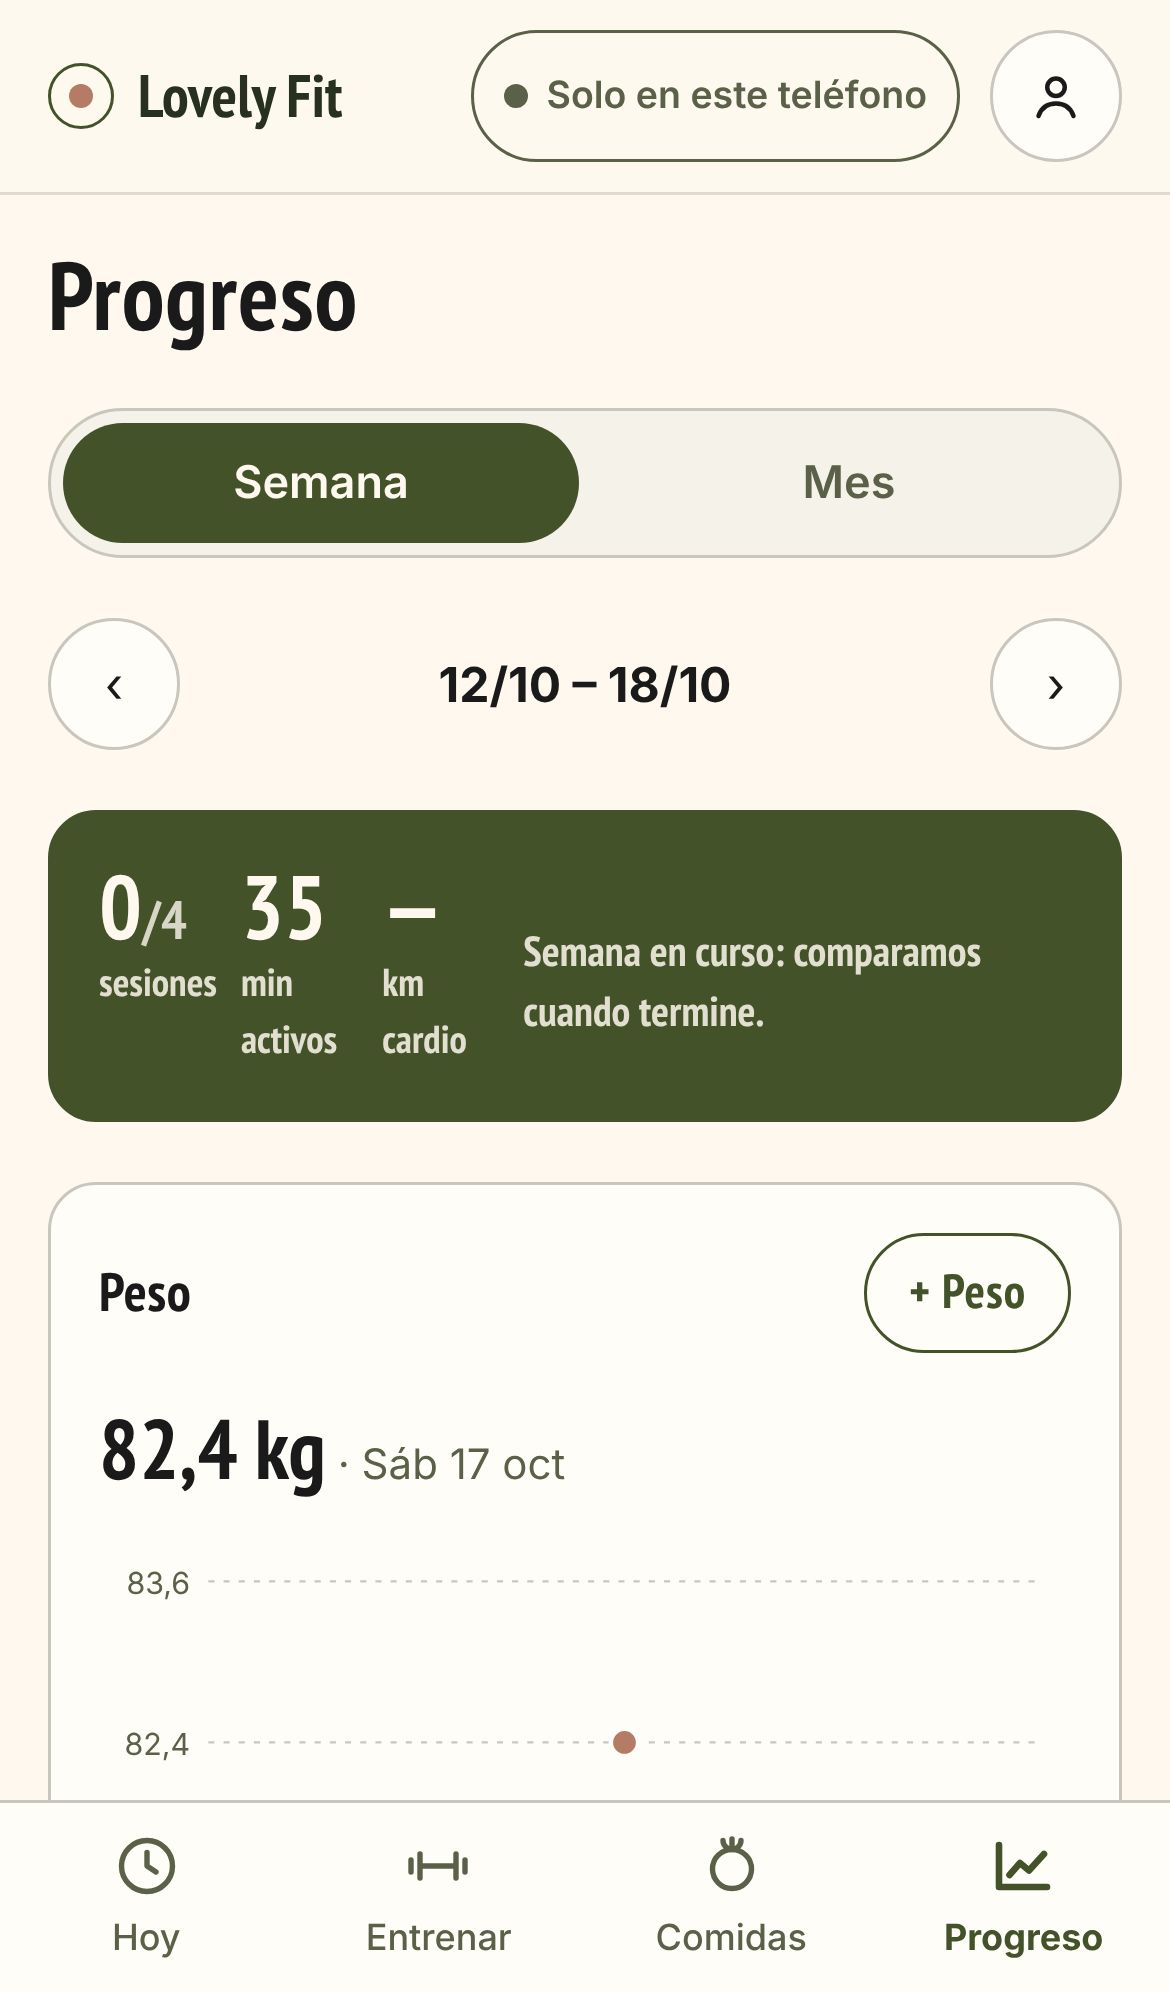
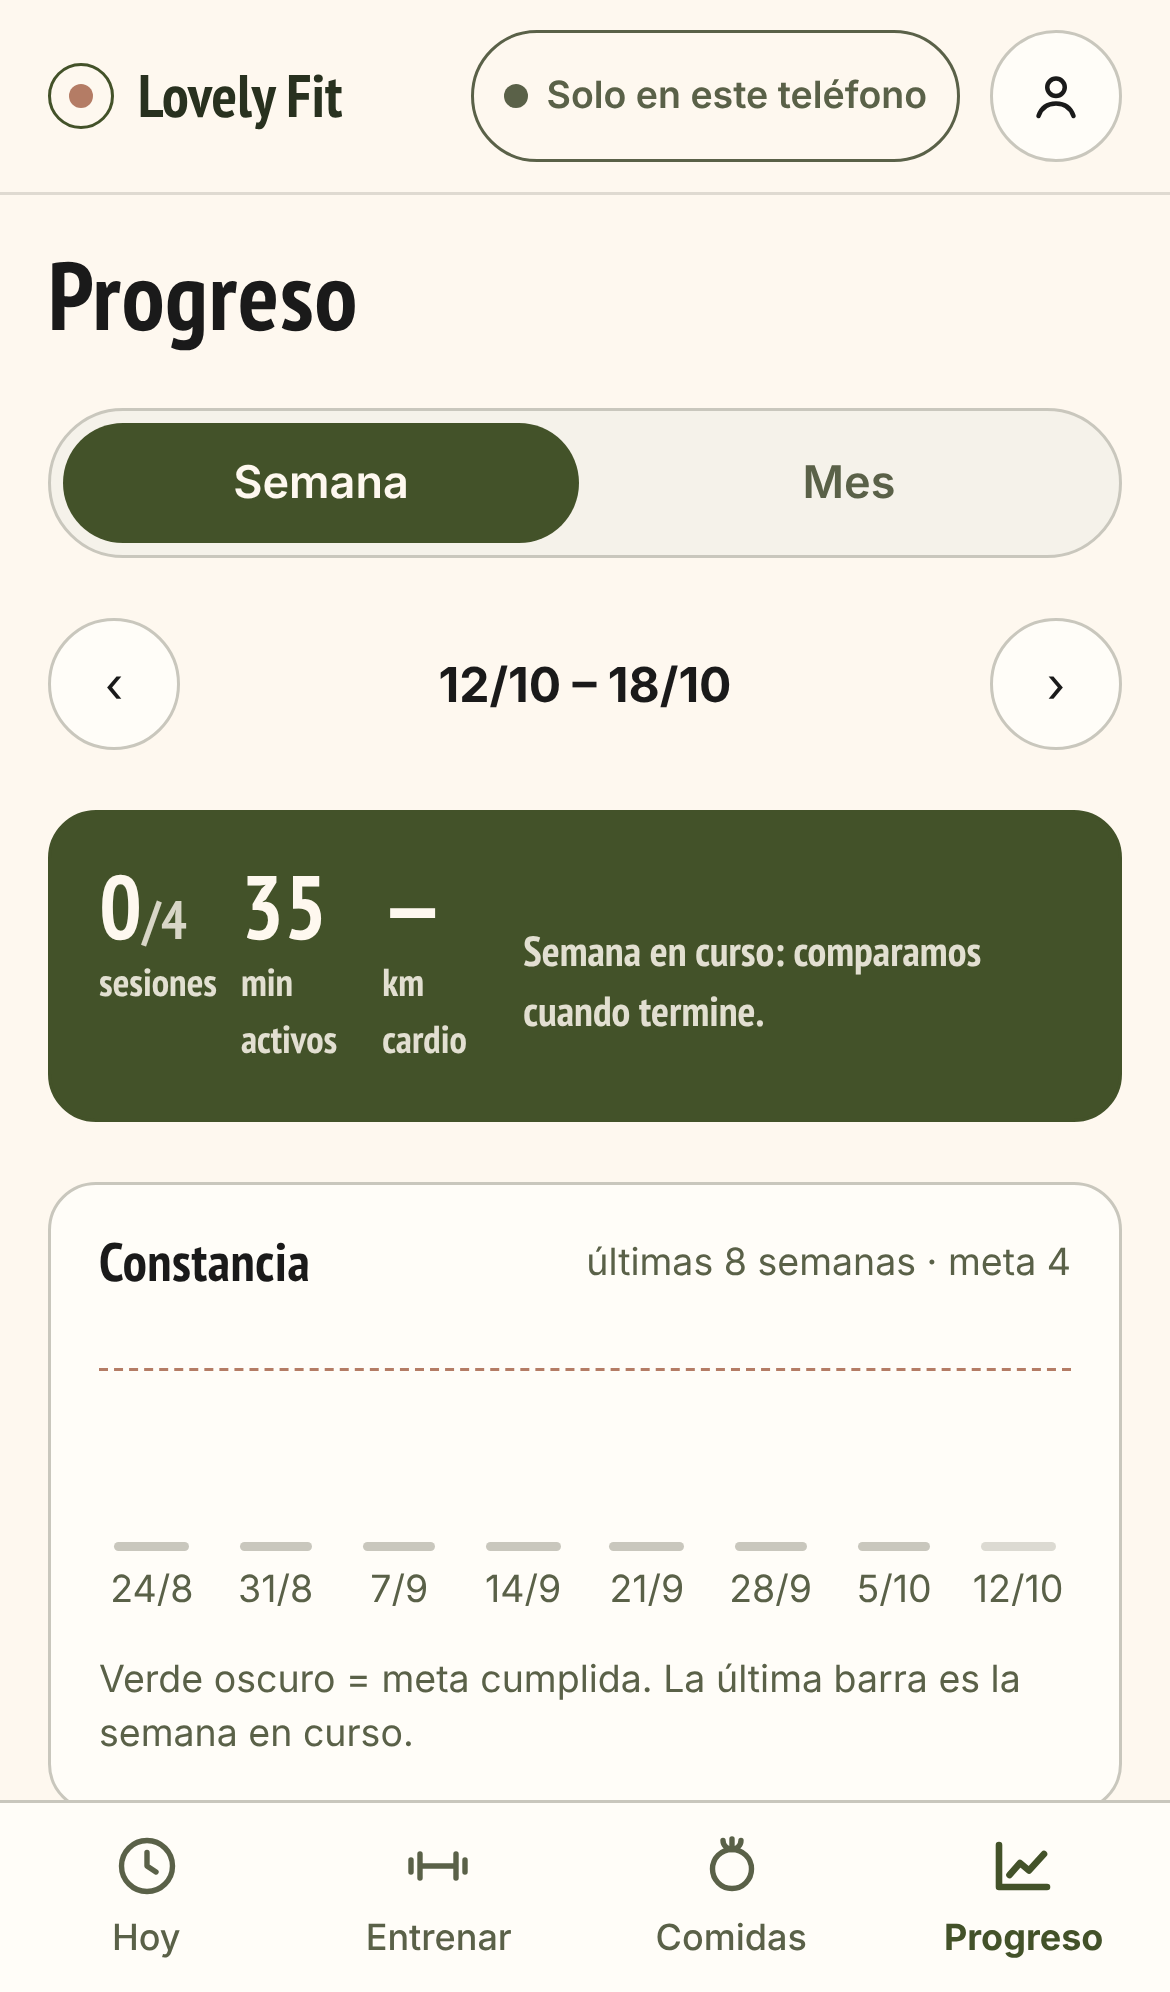
Análisis: récords, series por grupo, constancia, tendencia de peso y resumen

diff --git a/lib/analytics.ts b/lib/analytics.ts
@@ -1,0 +1,147 @@
+import { addDays, daysBetween, weekStart, type DayKey } from './dates'
+import { dailyValue, doneSessions, series, type Period } from './stats'
+import type { DailyMetric, Exercise, Measurement, MuscleGroup, Session, WorkSet } from './types'
+
+/** 1RM estimado (Epley). Solo con 1–12 repes; más allá la estimación no es confiable. */
+export function e1rm(weightKg: number | null, reps: number | null): number | null {
+  if (!weightKg || !reps || reps < 1 || reps > 12) return null
+  return Math.round(weightKg * (1 + reps / 30) * 10) / 10
+}
+
+interface Ctx {
+  sessions: Session[]
+  sets: WorkSet[]
+  exercises: Exercise[]
+}
+
+const validSets = ({ sessions, sets }: Pick<Ctx, 'sessions' | 'sets'>) => {
+  const done = new Map(doneSessions(sessions).map((s) => [s.id, s]))
+  return sets
+    .filter((x) => !x.deletedAt && x.done && x.kind === 'work' && done.has(x.sessionId))
+    .map((x) => ({ set: x, session: done.get(x.sessionId)! }))
+}
+
+export interface PR {
+  exerciseId: string
+  name: string
+  date: DayKey
+  weightKg: number
+  reps: number
+  e1rm: number
+  /** Mejora sobre la mejor marca anterior (kg de 1RM estimado); null si es la primera. */
+  improvement: number | null
+}
+
+/** Récords: la mejor serie (por 1RM estimado) de cada ejercicio, y cuáles se lograron en el período. */
+export function personalRecords(ctx: Ctx, period?: Period): { best: PR[]; inPeriod: PR[] } {
+  const names = new Map(ctx.exercises.map((e) => [e.id, e.name]))
+  const rows = validSets(ctx)
+    .map(({ set, session }) => ({ set, date: session.date, est: e1rm(set.weightKg, set.reps) }))
+    .filter((r): r is { set: WorkSet; date: DayKey; est: number } => r.est != null)
+    .sort((a, b) => a.date.localeCompare(b.date))
+  const best = new Map<string, PR>()
+  const before = new Map<string, number>() // mejor marca antes del período
+  for (const r of rows) {
+    const cur = best.get(r.set.exerciseId)
+    if (period && r.date < period.from) before.set(r.set.exerciseId, Math.max(before.get(r.set.exerciseId) ?? 0, r.est))
+    if (!cur || r.est > cur.e1rm) {
+      best.set(r.set.exerciseId, {
+        exerciseId: r.set.exerciseId, name: names.get(r.set.exerciseId) ?? 'Ejercicio', date: r.date,
+        weightKg: r.set.weightKg!, reps: r.set.reps!, e1rm: r.est, improvement: cur ? Math.round((r.est - cur.e1rm) * 10) / 10 : null,
+      })
+    }
+  }
+  // Récord del período: la mejor marca lograda dentro del período supera la previa (la primera vez no cuenta)
+  const inPeriod: PR[] = []
+  if (period) {
+    for (const pr of best.values()) {
+      const base = before.get(pr.exerciseId)
+      if (base != null && pr.date >= period.from && pr.date <= period.to && pr.e1rm > base) {
+        inPeriod.push({ ...pr, improvement: Math.round((pr.e1rm - base) * 10) / 10 })
+      }
+    }
+  }
+  return { best: [...best.values()].sort((a, b) => b.e1rm - a.e1rm), inPeriod }
+}
+
+/** Series efectivas (de trabajo, completadas) por grupo muscular en el período. */
+export function setsByGroup(ctx: Ctx, period: Period): { group: MuscleGroup; sets: number }[] {
+  const groups = new Map(ctx.exercises.map((e) => [e.id, e.group]))
+  const count = new Map<MuscleGroup, number>()
+  for (const { set, session } of validSets(ctx)) {
+    if (session.date < period.from || session.date > period.to) continue
+    const g = groups.get(set.exerciseId) ?? 'otro'
+    if (g === 'cardio') continue
+    count.set(g, (count.get(g) ?? 0) + 1)
+  }
+  return [...count.entries()].map(([group, sets]) => ({ group, sets })).sort((a, b) => b.sets - a.sets)
+}
+
+/** Sesiones por semana de las últimas N semanas (incluida la actual). */
+export function weeklyConsistency(sessions: Session[], today: DayKey, weeks = 8): { week: DayKey; count: number }[] {
+  const current = weekStart(today)
+  const counts = new Map<DayKey, number>()
+  for (const s of doneSessions(sessions)) counts.set(weekStart(s.date), (counts.get(weekStart(s.date)) ?? 0) + 1)
+  return Array.from({ length: weeks }, (_, i) => {
+    const w = addDays(current, -7 * (weeks - 1 - i))
+    return { week: w, count: counts.get(w) ?? 0 }
+  })
+}
+
+/** Tendencia de peso en kg por semana (regresión lineal). Necesita ≥2 pesajes separados ≥7 días. */
+export function weightTrend(measurements: Measurement[]): { kgPerWeek: number; points: number; spanDays: number } | null {
+  const pts = series(measurements, 'weight')
+  if (pts.length < 2) return null
+  const span = daysBetween(pts[0].date, pts[pts.length - 1].date)
+  if (span < 7) return null
+  const xs = pts.map((p) => daysBetween(pts[0].date, p.date))
+  const mx = xs.reduce((a, b) => a + b, 0) / xs.length
+  const my = pts.reduce((a, p) => a + p.value, 0) / pts.length
+  const num = xs.reduce((a, x, i) => a + (x - mx) * (pts[i].value - my), 0)
+  const den = xs.reduce((a, x) => a + (x - mx) ** 2, 0)
+  if (!den) return null
+  return { kgPerWeek: Math.round((num / den) * 7 * 100) / 100, points: pts.length, spanDays: span }
+}
+
+/** Promedio de pasos en días con entrenamiento vs. días sin, dentro del período (solo días con dato). */
+export function stepsTrainingVsRest(sessions: Session[], metrics: DailyMetric[], period: Period) {
+  const trained = new Set(doneSessions(sessions).map((s) => s.date))
+  const a: number[] = []
+  const b: number[] = []
+  for (let d = period.from; d <= period.to; d = addDays(d, 1)) {
+    const v = dailyValue(metrics, 'steps', d)
+    if (v == null) continue
+    ;(trained.has(d) ? a : b).push(v)
+  }
+  const avg = (x: number[]) => (x.length ? Math.round(x.reduce((s, v) => s + v, 0) / x.length) : null)
+  return { training: avg(a), rest: avg(b), trainingDays: a.length, restDays: b.length }
+}
+
+/** Frases cortas, sin culpa, basadas solo en datos existentes. */
+export function insights(input: {
+  consistency: { week: DayKey; count: number }[]
+  goal: number
+  prs: PR[]
+  trend: ReturnType<typeof weightTrend>
+  steps: ReturnType<typeof stepsTrainingVsRest>
+}): string[] {
+  const out: string[] = []
+  const past = input.consistency.slice(0, -1) // la semana en curso todavía no terminó
+  const met = past.filter((w) => w.count >= input.goal).length
+  const active = past.filter((w) => w.count > 0).length
+  if (active > 0) out.push(`En las últimas ${past.length} semanas entrenaste en ${active} y cumpliste la meta en ${met}.`)
+  if (input.prs.length) {
+    const top = [...input.prs].sort((a, b) => (b.improvement ?? 0) - (a.improvement ?? 0))[0]
+    out.push(`${input.prs.length} récord${input.prs.length > 1 ? 's' : ''} en este período. El mayor salto: ${top.name} (+${String(top.improvement ?? 0).replace('.', ',')} kg de 1RM estimado).`)
+  }
+  if (input.trend) {
+    const k = input.trend.kgPerWeek
+    const txt = Math.abs(k) < 0.1 ? 'estable' : k < 0 ? `bajando ~${String(Math.abs(k)).replace('.', ',')} kg por semana` : `subiendo ~${String(k).replace('.', ',')} kg por semana`
+    out.push(`Peso ${txt} (${input.trend.points} pesajes en ${input.trend.spanDays} días).`)
+  }
+  const st = input.steps
+  if (st.training != null && st.rest != null && st.trainingDays >= 2 && st.restDays >= 2) {
+    out.push(`Los días que entrenás caminás ~${st.training.toLocaleString('es-AR')} pasos; los otros, ~${st.rest.toLocaleString('es-AR')}.`)
+  }
+  return out
+}

diff --git a/app/progreso/page.tsx b/app/progreso/page.tsx
@@ -9,7 +9,8 @@ import {
   achievements, dailyValue, latest, monthPeriod, series, stepStats, suggestWeekdayStepGoal, summarize, weekPeriod, type Period,
 } from '@/lib/stats'
 import { describeSets, recentPerformances } from '@/lib/training'
-import type { Activity, DailyMetric, Exercise, Measurement, Photo, Session } from '@/lib/types'
+import type { Activity, DailyMetric, Exercise, Measurement, Photo, Session, WorkSet } from '@/lib/types'
+import { insights, personalRecords, setsByGroup, stepsTrainingVsRest, weeklyConsistency, weightTrend } from '@/lib/analytics'
 import { MeasurementForm, StepsForm } from '@/components/Forms'
 import { PhotoButton, PhotoImg } from '@/components/Photo'
 import { LineChart, Sheet, WeekBars, persist } from '@/components/ui'
@@ -27,6 +28,7 @@ export default function ProgressPage() {
   const metrics = useRows<DailyMetric>('dailyMetrics')
   const photos = useRows<Photo>('photos')
   const exercises = useRows<Exercise>('exercises')
+  const allSets = useRows<WorkSet>('sets')
   const [sheet, setSheet] = useState<null | 'weight' | 'waist' | 'steps' | 'photos'>(null)
   const [exId, setExId] = useState<string>('')
 
@@ -90,6 +92,9 @@ export default function ProgressPage() {
             : `vs. ${mode === 'week' ? 'semana' : 'mes'} anterior: ${delta(sum.sessions, prev.sessions)} sesiones · ${delta(sum.strengthMinutes + sum.cardioMinutes, prev.strengthMinutes + prev.cardioMinutes)} min`}
         </p>
       </div>
+
+      <Analysis period={period} today={today} goal={goal}
+        sessions={sessions ?? []} sets={allSets ?? []} exercises={exercises ?? []} measurements={measurements ?? []} metrics={metrics ?? []} />
 
       {/* Peso y cintura */}
       <section className="card stack">
@@ -237,6 +242,88 @@ function MeasurementList({ measurements }: { measurements: Measurement[] }) {
           </div>
         )}
       </Sheet>
+    </>
+  )
+}
+
+function Analysis(props: {
+  period: Period; today: string; goal: number
+  sessions: Session[]; sets: WorkSet[]; exercises: Exercise[]; measurements: Measurement[]; metrics: DailyMetric[]
+}) {
+  const { period, today, goal } = props
+  const ctx = { sessions: props.sessions, sets: props.sets, exercises: props.exercises }
+  const consistency = weeklyConsistency(props.sessions, today)
+  const prs = personalRecords(ctx, period)
+  const groups = setsByGroup(ctx, period)
+  const trend = weightTrend(props.measurements)
+  const steps = stepsTrainingVsRest(props.sessions, props.metrics, period)
+  const notes = insights({ consistency, goal, prs: prs.inPeriod, trend, steps })
+  const maxWeek = Math.max(goal, ...consistency.map((w) => w.count))
+  const maxGroup = Math.max(1, ...groups.map((g) => g.sets))
+
+  return (
+    <>
+      {notes.length > 0 && (
+        <section className="card stack" style={{ gap: 8 }} data-testid="insights">
+          <p className="kicker" style={{ margin: 0 }}>En pocas palabras</p>
+          {notes.map((n, i) => <p key={i} style={{ margin: 0 }}>{n}</p>)}
+        </section>
+      )}
+
+      <section className="card stack">
+        <div className="card-title" style={{ margin: 0 }}><h3>Constancia</h3><span className="tiny muted">últimas 8 semanas · meta {goal}</span></div>
+        <div role="img" aria-label={`Sesiones por semana: ${consistency.map((w) => w.count).join(', ')}`}
+          style={{ display: 'grid', gridTemplateColumns: 'repeat(8, 1fr)', gap: 6, alignItems: 'end', height: 96, position: 'relative' }}>
+          <div aria-hidden style={{ position: 'absolute', left: 0, right: 0, bottom: 18 + (goal / maxWeek) * 64, borderTop: '1.5px dashed var(--clay)' }} />
+          {consistency.map((w, i) => (
+            <div key={w.week} style={{ display: 'flex', flexDirection: 'column', alignItems: 'center', gap: 4, justifyContent: 'flex-end', height: '100%' }}>
+              <span className="tiny num">{w.count || ''}</span>
+              <div style={{ width: '70%', height: Math.max(3, (w.count / maxWeek) * 64), borderRadius: 6,
+                background: w.count === 0 ? 'var(--stone)' : w.count >= goal ? 'var(--lab)' : 'var(--olive)', opacity: i === 7 ? 0.65 : 1 }} />
+              <span className="tiny muted">{fmtShort(w.week)}</span>
+            </div>
+          ))}
+        </div>
+        <p className="tiny muted" style={{ margin: 0 }}>Verde oscuro = meta cumplida. La última barra es la semana en curso.</p>
+      </section>
+
+      <section className="card stack">
+        <div className="card-title" style={{ margin: 0 }}><h3>Series por grupo muscular</h3><span className="tiny muted">{period.from === period.to ? '' : 'en el período'}</span></div>
+        {groups.length === 0 ? <p className="small muted" style={{ margin: 0 }}>Sin series completadas en este período.</p> : (
+          <div className="stack" style={{ gap: 6 }}>
+            {groups.map((g) => (
+              <div key={g.group} style={{ display: 'grid', gridTemplateColumns: '84px 1fr 32px', gap: 8, alignItems: 'center' }}>
+                <span className="small" style={{ textTransform: 'capitalize' }}>{g.group}</span>
+                <div style={{ height: 12, borderRadius: 6, background: 'var(--offwhite)' }}>
+                  <div style={{ width: `${(g.sets / maxGroup) * 100}%`, height: '100%', borderRadius: 6, background: 'var(--lab)' }} />
+                </div>
+                <span className="small num" style={{ textAlign: 'right' }}>{g.sets}</span>
+              </div>
+            ))}
+          </div>
+        )}
+      </section>
+
+      <section className="card stack">
+        <div className="card-title" style={{ margin: 0 }}><h3>Récords</h3><span className="tiny muted">1RM estimado</span></div>
+        {prs.best.length === 0 ? <p className="small muted" style={{ margin: 0 }}>Aparecen cuando completes series con kilos y repes.</p> : (
+          <div className="list">
+            {prs.best.slice(0, 6).map((p) => {
+              const fresh = prs.inPeriod.find((x) => x.exerciseId === p.exerciseId)
+              return (
+                <div key={p.exerciseId} className="item" style={{ minHeight: 48 }}>
+                  <div className="grow" style={{ minWidth: 0 }}>
+                    <div className="ellipsis" style={{ fontWeight: 600 }}>{p.name}{fresh && <span className="badge ok" style={{ marginLeft: 6 }}>nuevo</span>}</div>
+                    <div className="tiny muted">{String(p.weightKg).replace('.', ',')} kg × {p.reps} · {fmtDay(p.date)}</div>
+                  </div>
+                  <span className="num" style={{ fontSize: 20 }}>{String(p.e1rm).replace('.', ',')}</span>
+                </div>
+              )
+            })}
+          </div>
+        )}
+        <p className="tiny muted" style={{ margin: 0 }}>Estimación para comparar tu progreso, no una carga para probar.</p>
+      </section>
     </>
   )
 }

diff --git a/tests/unit/analytics.test.ts b/tests/unit/analytics.test.ts
@@ -1,0 +1,57 @@
+import { describe, expect, it } from 'vitest'
+import { e1rm, insights, personalRecords, setsByGroup, stepsTrainingVsRest, weeklyConsistency, weightTrend } from '@/lib/analytics'
+import { weekPeriod } from '@/lib/stats'
+import type { Base, DailyMetric, Exercise, Measurement, Session, WorkSet } from '@/lib/types'
+
+let i = 0
+const b = (o: Partial<Base> = {}): Base => ({ id: `id${++i}`, ownerId: 'u', createdAt: 'x', updatedAt: 'x', deletedAt: null, dirty: 0, ...o })
+const ses = (date: string, status: Session['status'] = 'done') => ({ ...b(), date, status, startedAt: `${date}T10:00:00Z`, endedAt: `${date}T11:00:00Z`, name: 's', planDayId: null, feeling: null, notes: '' }) as Session
+const ex = (id: string, name: string, group: Exercise['group']) => ({ ...b({ id }), name, group, equipment: '', instructions: '', incrementKg: 2.5, photoId: null, isCustom: false }) as Exercise
+const set = (s: Session, exerciseId: string, w: number | null, r: number | null, extra: Partial<WorkSet> = {}) =>
+  ({ ...b(), sessionId: s.id, sessionExerciseId: 'se', exerciseId, order: 0, kind: 'work', weightKg: w, reps: r, rir: null, done: true, doneAt: null, ...extra }) as WorkSet
+
+describe('análisis', () => {
+  it('1RM estimado solo con rangos razonables', () => {
+    expect(e1rm(100, 10)).toBeCloseTo(133.3, 1)
+    expect(e1rm(100, 1)).toBeCloseTo(103.3, 1)
+    expect(e1rm(100, 20)).toBeNull()
+    expect(e1rm(null, 8)).toBeNull()
+  })
+  it('récords: la primera vez no es récord; mejorar sí', () => {
+    const s1 = ses('2026-10-05'), s2 = ses('2026-10-13'), s3 = ses('2026-10-14', 'discarded')
+    const exercises = [ex('bench', 'Press banca', 'pecho')]
+    const sets = [set(s1, 'bench', 70, 10), set(s2, 'bench', 75, 10), set(s3, 'bench', 200, 5), set(s2, 'bench', 80, 2, { kind: 'warmup' })]
+    const r = personalRecords({ sessions: [s1, s2, s3], sets, exercises }, weekPeriod('2026-10-13'))
+    expect(r.best[0].weightKg).toBe(75) // la descartada y la aproximación no cuentan
+    expect(r.inPeriod).toHaveLength(1)
+    expect(r.inPeriod[0].improvement).toBeCloseTo(6.7, 1)
+    const first = personalRecords({ sessions: [s1], sets: [sets[0]], exercises }, weekPeriod('2026-10-05'))
+    expect(first.inPeriod).toHaveLength(0)
+  })
+  it('series por grupo excluyen cardio, no hechas y otros períodos', () => {
+    const s = ses('2026-10-13'), old = ses('2026-10-01')
+    const exercises = [ex('a', 'A', 'pecho'), ex('b', 'B', 'espalda'), ex('c', 'C', 'cardio')]
+    const sets = [set(s, 'a', 50, 10), set(s, 'a', 50, 10), set(s, 'b', 40, 10), set(s, 'b', 40, 10, { done: false }), set(s, 'c', null, null), set(old, 'a', 50, 10)]
+    expect(setsByGroup({ sessions: [s, old], sets, exercises }, weekPeriod('2026-10-13'))).toEqual([{ group: 'pecho', sets: 2 }, { group: 'espalda', sets: 1 }])
+  })
+  it('constancia de 8 semanas incluye semanas vacías', () => {
+    const c = weeklyConsistency([ses('2026-10-13'), ses('2026-10-14'), ses('2026-09-01')], '2026-10-17')
+    expect(c).toHaveLength(8)
+    expect(c.at(-1)).toEqual({ week: '2026-10-12', count: 2 })
+    expect(c.filter((w) => w.count === 0).length).toBe(6)
+  })
+  it('tendencia de peso necesita al menos una semana', () => {
+    const m = (date: string, value: number) => ({ ...b(), date, kind: 'weight', value, note: '', source: 'manual' }) as Measurement
+    expect(weightTrend([m('2026-10-01', 106)])).toBeNull()
+    expect(weightTrend([m('2026-10-01', 106), m('2026-10-03', 105)])).toBeNull()
+    expect(weightTrend([m('2026-10-01', 106), m('2026-10-15', 105)])?.kgPerWeek).toBe(-0.5)
+  })
+  it('pasos en días de entrenamiento vs descanso e insights sin culpa', () => {
+    const d = (date: string, value: number) => ({ ...b(), date, kind: 'steps', value, source: 'manual', dedupeKey: '' }) as DailyMetric
+    const st = stepsTrainingVsRest([ses('2026-10-12'), ses('2026-10-14')], [d('2026-10-12', 9000), d('2026-10-14', 11000), d('2026-10-13', 4000), d('2026-10-15', 6000)], weekPeriod('2026-10-12'))
+    expect(st).toEqual({ training: 10000, rest: 5000, trainingDays: 2, restDays: 2 })
+    const text = insights({ consistency: weeklyConsistency([ses('2026-10-06')], '2026-10-17'), goal: 4, prs: [], trend: null, steps: st }).join(' ')
+    expect(text).toMatch(/entrenaste en 1/)
+    expect(text).not.toMatch(/fallaste|deberías|mal/i)
+  })
+})

diff --git a/tests/unit/logic.test.ts b/tests/unit/logic.test.ts
@@ -225,7 +225,7 @@ describe('catálogo', () => {
     // Simular cuenta vieja: borrar algunos, quitar claves y usar un nombre anterior
     const all = await getDB().exercises.toArray()
     const tri = all.find((e) => e.catalogKey === 'triceps_pushdown')!
-    const keep = new Set([...all.slice(0, 9).map((e) => e.id), tri.id])
+    const keep = new Set([...all.filter((e) => e.id !== tri.id).slice(0, 9).map((e) => e.id), tri.id])
     await getDB().exercises.bulkDelete(all.filter((e) => !keep.has(e.id)).map((e) => e.id))
     await getDB().exercises.update(tri.id, { catalogKey: null, name: 'Tríceps en polea' })
     const added = await ensureCatalog()
